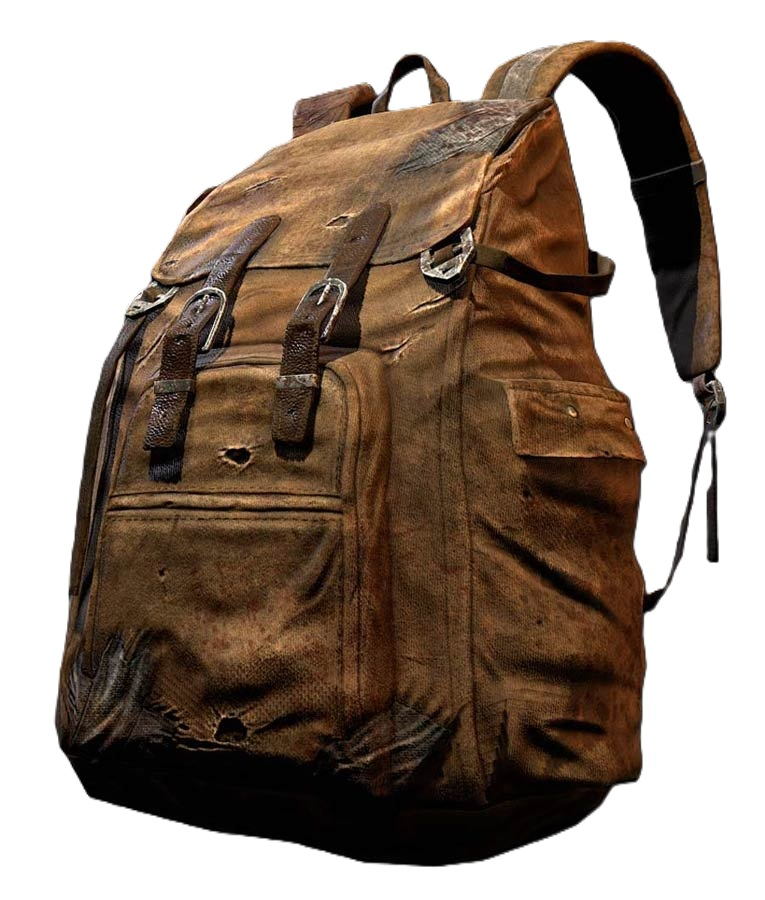
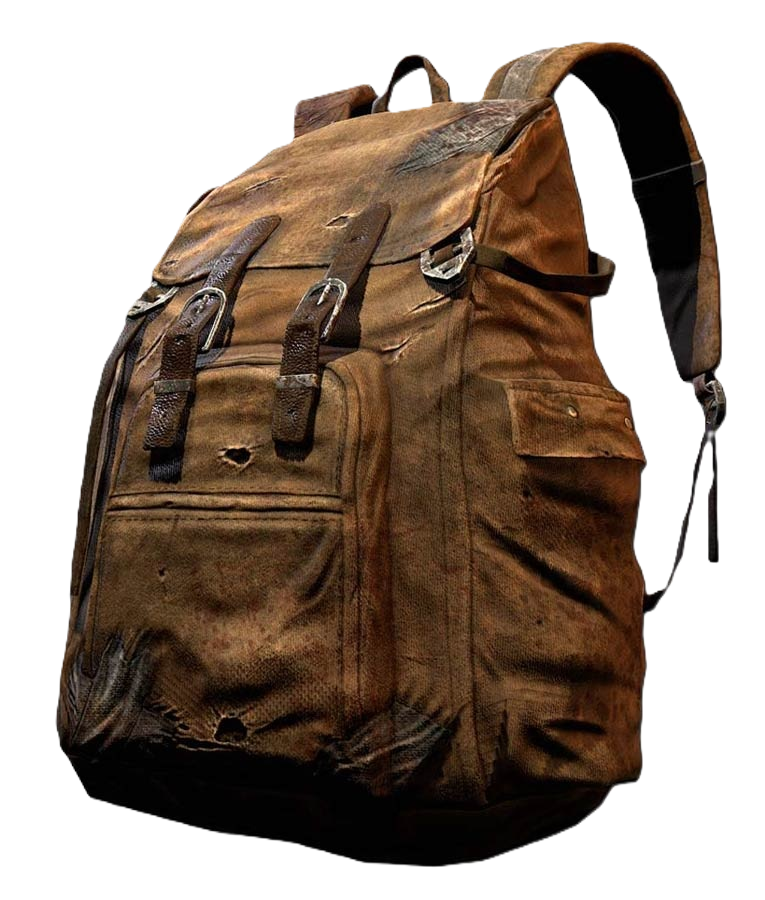
-

diff --git a/tlou/the-last-of-us.css b/tlou/the-last-of-us.css
@@ -12,7 +12,7 @@
 }
 
 * { box-sizing: border-box; }
-html { scroll-behavior: smooth; scroll-padding-top: 80px; }
+html { scroll-behavior: smooth; scroll-padding-top: 80px;}
 body {
     margin: 0;
     background: var(--bg);
@@ -50,7 +50,19 @@ button:focus-visible, a:focus-visible { outline: 2px solid var(--moss); outline-
 .site-nav a:hover, .header-index:hover { color: #fff; }
 .header-index span { margin-left: 8px; color: var(--moss); }
 
-.hero { min-height: min(820px, calc(100svh - 82px)); min-height: max(650px, min(820px, calc(100svh - 82px))); position: relative; display: flex; align-items: center; isolation: isolate; overflow: hidden; background: #20251e; }
+.hero { min-height: min(820px, calc(100svh - 82px)); min-height: max(650px, min(820px, calc(100svh - 82px))); position: relative; display: flex; align-items: center; isolation: isolate; overflow: hidden;
+    background-image:
+        linear-gradient(
+            to bottom,
+            rgba(10, 12, 10, 0.25),
+            rgba(10, 12, 10, 0.75)
+        ),
+        url("image/tlou-hero.jpg");
+
+    background-size: cover;
+    background-position: center;
+    background-repeat: no-repeat; 
+}
 .hero-image { position: absolute; inset: 0; z-index: -3; background-image: url("https://images.unsplash.com/photo-1511497584788-876760111969?auto=format&fit=crop&w=2200&q=85"); background-size: cover; background-position: center 46%; filter: saturate(.48) contrast(1.04); transform: scale(1.025); }
 .hero-vignette { position: absolute; inset: 0; z-index: -2; background: linear-gradient(90deg, rgba(13,16,13,.94) 0%, rgba(13,16,13,.72) 42%, rgba(13,16,13,.14) 100%), linear-gradient(0deg, var(--bg) 0%, transparent 23%, rgba(12,14,11,.12) 75%, rgba(12,14,11,.28) 100%); }
 .hero-content { width: min(calc(100% - 80px), var(--content-width)); margin: 0 auto; padding: 70px 0 100px; }
@@ -73,7 +85,7 @@ button:focus-visible, a:focus-visible { outline: 2px solid var(--moss); outline-
 .intro-strip p { margin: 0; color: #c6c9bb; font-size: 8px; letter-spacing: .17em; text-align: center; }
 .intro-strip > span { width: 4px; height: 4px; flex: 0 0 4px; border-radius: 50%; background: #858d70; }
 .section-wrap { width: min(calc(100% - 80px), var(--content-width)); margin-inline: auto; }
-.journey { padding-top: 130px; padding-bottom: 120px; }
+.journey { padding-top: 60px; padding-bottom: 50px; }
 .section-heading { max-width: 670px; margin-bottom: 60px; }
 .section-heading .eyebrow { margin-bottom: 24px; }
 .section-heading h2, .closing-section h2 { font-size: clamp(56px, 7.2vw, 96px); }
@@ -93,10 +105,10 @@ button:focus-visible, a:focus-visible { outline: 2px solid var(--moss); outline-
 .route-stop-right .route-copy { order: 1; }
 .route-image { position: relative; min-height: 300px; overflow: hidden; background-color: #30382b; background-size: cover; background-position: center; filter: saturate(.62); box-shadow: 0 25px 60px rgba(0,0,0,.18); }
 .route-image::after, .story-image::after { content: ""; position: absolute; inset: 0; background: linear-gradient(0deg, rgba(14,17,13,.3), transparent 60%); pointer-events: none; }
-.image-city { background-image: url("https://images.unsplash.com/photo-1519608487953-e999c86e7455?auto=format&fit=crop&w=1200&q=80"); }
-.image-overgrowth { background-image: url("https://images.unsplash.com/photo-1448375240586-882707db888b?auto=format&fit=crop&w=1200&q=80"); }
-.image-interior { background-image: url("https://images.unsplash.com/photo-1511818966892-d7d671e672a2?auto=format&fit=crop&w=1200&q=80"); }
-.image-wilderness { background-image: url("https://images.unsplash.com/photo-1473448912268-2022ce9509d8?auto=format&fit=crop&w=1200&q=80"); }
+.image-city { background-image: url("image/tlou-block.jpg"); }
+.image-overgrowth { background-image: url("image/tlou-city.jpg"); }
+.image-interior { background-image: url("image/the-last-of-us-1.jpg"); }
+.image-wilderness { background-image: url("image/tlou-us.jpg"); }
 .route-copy { position: relative; padding: 20px 0; }
 .route-number { color: var(--soft); font-size: 8px; letter-spacing: .16em; }
 .route-copy h3 { margin: 18px 0 15px; font-family: "Oswald", sans-serif; font-size: clamp(30px, 3.6vw, 46px); font-weight: 400; line-height: 1.08; text-transform: uppercase; }
@@ -112,9 +124,9 @@ button:focus-visible, a:focus-visible { outline: 2px solid var(--moss); outline-
 .route-detail > p:last-child { margin: 0; color: var(--muted); font-size: 12px; line-height: 2; }
 .route-detail-close { position: absolute; top: 12px; right: 15px; border: 0; background: transparent; color: #dfe2d2; cursor: pointer; font-size: 25px; }
 
-.story-section { padding-top: 100px; padding-bottom: 120px; border-top: 1px solid var(--line); }
+.story-section { padding-top: 60px; padding-bottom: 70px; border-top: 1px solid var(--line); }
 .story-layout { display: grid; grid-template-columns: minmax(0, 1.05fr) minmax(0, .85fr); gap: clamp(35px, 7vw, 100px); align-items: center; }
-.story-image { position: relative; min-height: 520px; background-image: linear-gradient(0deg, rgba(16,19,15,.18), rgba(16,19,15,.05)), url("https://images.unsplash.com/photo-1511497584788-876760111969?auto=format&fit=crop&w=1200&q=85"); background-size: cover; background-position: center; filter: saturate(.52); }
+.story-image { position: relative; min-height: 520px; background-image: linear-gradient(0deg, rgba(16,19,15,.18), rgba(16,19,15,.05)), url("image/clicker.jpg"); background-size: cover; background-position: center; filter: saturate(.52); }
 .story-copy .copy-label { margin-bottom: 22px; }
 .body-copy { margin: 0 0 18px; color: #c3c6b9; font-size: 12px; line-height: 2.1; }
 .muted-copy { color: #858b7b; font-size: 10px; }
@@ -127,7 +139,7 @@ button:focus-visible, a:focus-visible { outline: 2px solid var(--moss); outline-
 .fact-chips { display: flex; flex-wrap: wrap; gap: 6px; }
 .fact-chips span { padding: 6px 7px; border: 1px solid var(--line); color: #c6cabc; font-size: 9px; line-height: 1.3; }
 
-.gameplay-section { padding-top: 110px; padding-bottom: 120px; border-top: 1px solid var(--line); }
+.gameplay-section { padding-top: 60px; padding-bottom: 60px; border-top: 1px solid var(--line); }
 .mechanic-grid { display: grid; grid-template-columns: repeat(4, minmax(0, 1fr)); border-top: 1px solid var(--line); border-left: 1px solid var(--line); }
 .mechanic-card { min-height: 230px; padding: 25px 22px; border-right: 1px solid var(--line); border-bottom: 1px solid var(--line); background: rgba(255,255,255,.012); transition: background .25s ease, transform .25s ease; }
 .mechanic-card:hover { background: rgba(180,190,150,.055); transform: translateY(-4px); }
@@ -135,7 +147,7 @@ button:focus-visible, a:focus-visible { outline: 2px solid var(--moss); outline-
 .mechanic-card h3 { margin: 30px 0 12px; font-size: 13px; font-weight: 600; }
 .mechanic-card p { margin: 0; color: #9ea394; font-size: 10px; line-height: 1.9; }
 
-.backpack-section { padding-top: 110px; padding-bottom: 120px; border-top: 1px solid var(--line); }
+.backpack-section { padding-top: 60px; padding-bottom: 60px; border-top: 1px solid var(--line); }
 .backpack-heading { max-width: 720px; }
 .backpack-playground { display: grid; grid-template-columns: minmax(0, 1fr) minmax(0, .9fr); gap: clamp(35px, 7vw, 90px); align-items: center; }
 .backpack-visual { position: relative; min-height: 500px; display: grid; place-items: center; overflow: hidden; background: radial-gradient(ellipse at center, rgba(125,137,99,.14), transparent 65%); }
@@ -172,14 +184,14 @@ button:focus-visible, a:focus-visible { outline: 2px solid var(--moss); outline-
 .craft-result { min-height: 20px; margin: 14px 0 0; color: #c6a68a; font-size: 10px; line-height: 1.8; }
 .craft-result.is-success { color: #c2d09b; }
 
-.features-section { padding-top: 110px; padding-bottom: 120px; border-top: 1px solid var(--line); }
+.features-section { padding-top: 60px; padding-bottom: 60px; border-top: 1px solid var(--line); }
 .feature-list { border-top: 1px solid var(--line); }
 .feature-row { display: grid; grid-template-columns: 60px minmax(180px, .8fr) minmax(0, 1fr); align-items: start; gap: 25px; padding: 28px 0; border-bottom: 1px solid var(--line); }
 .feature-row > span { color: var(--moss); font-family: "Oswald", sans-serif; font-size: 22px; }
 .feature-row h3 { margin: 4px 0 0; font-size: 13px; font-weight: 600; }
 .feature-row p { max-width: 560px; margin: 0; color: #a7ad9b; font-size: 11px; line-height: 1.9; }
 
-.requirements-section { padding-top: 110px; padding-bottom: 120px; border-top: 1px solid var(--line); }
+.requirements-section { padding-top: 70px; padding-bottom: 80px; border-top: 1px solid var(--line); }
 .requirements-grid { display: grid; grid-template-columns: repeat(2, minmax(0,1fr)); gap: 18px; }
 .requirement-card { min-width: 0; padding: 28px; border: 1px solid var(--line); background: linear-gradient(130deg, rgba(255,255,255,.035), rgba(255,255,255,.008)); }
 .requirement-label { display: flex; align-items: center; gap: 13px; padding-bottom: 20px; border-bottom: 1px solid var(--line); color: #b9beaa; font-size: 9px; letter-spacing: .12em; }
@@ -188,7 +200,7 @@ button:focus-visible, a:focus-visible { outline: 2px solid var(--moss); outline-
 .requirements-note { max-width: 760px; margin: 20px 0 0; color: #7f8677; font-size: 9px; line-height: 1.9; }
 
 .closing-section { position: relative; min-height: 540px; display: flex; flex-direction: column; justify-content: center; align-items: center; padding: 90px 24px; overflow: hidden; isolation: isolate; text-align: center; }
-.closing-backdrop { position: absolute; inset: 0; z-index: -2; background-image: linear-gradient(rgba(16,19,15,.8), rgba(16,19,15,.92)), url("https://images.unsplash.com/photo-1448375240586-882707db888b?auto=format&fit=crop&w=1800&q=80"); background-size: cover; background-position: center; filter: saturate(.5); }
+.closing-backdrop { position: absolute; inset: 0; z-index: -2; background-image: linear-gradient(rgba(16,19,15,.8), rgba(16,19,15,.92)), url("image/tlou-footer.jpg"); background-size: cover; background-position: center; filter: saturate(.5); }
 .closing-section h2 { margin-top: 22px; font-size: clamp(55px, 8vw, 90px); }
 .closing-section > p:not(.eyebrow) { max-width: 400px; margin: 20px 0 0; color: #b9beaf; font-size: 12px; line-height: 1.8; }
 .closing-section .hero-cta { margin-top: 28px; }

diff --git a/tlou/the-last-of-us.html b/tlou/the-last-of-us.html
@@ -48,26 +48,22 @@
                 <a class="hero-cta" href="#journey">Проследить маршрут <span>↓</span></a>
             </div>
             <div class="hero-side-note">UNITED STATES<br>20 YEARS AFTER THE OUTBREAK</div>
-            <div class="hero-bottom-line"><span>НАДЕЖДА — ЭТО ТОЖЕ РЕСУРС</span><span>01 / 06</span></div>
+            <div class="hero-bottom-line"><span>НАДЕЖДА — ЭТО ТОЖЕ РЕСУРС</span></div>
         </section>
-
         <section class="intro-strip" aria-label="Краткая информация">
             <p>ОДНА ДОРОГА</p><span></span><p>ДВА ПУТНИКА</p><span></span><p>МИР, КОТОРЫЙ ЗАРОС ТИШИНОЙ</p>
         </section>
-
         <section class="journey section-wrap" id="journey">
             <div class="section-heading journey-heading">
                 <p class="eyebrow">THE JOURNEY</p>
                 <h2>Следуй<br><em>за маршрутом.</em></h2>
                 <p class="section-intro">Это не точная карта событий, а визуальный след путешествия через разрушенную Америку. Прокручивай страницу и открывай главы пути.</p>
             </div>
-
             <div class="route-map">
                 <svg class="route-line" viewBox="0 0 1000 1900" preserveAspectRatio="none" aria-hidden="true">
                     <path class="route-line-shadow" d="M500 0 C500 100 240 95 250 230 S760 360 720 500 S230 650 300 820 S790 980 700 1150 S220 1330 310 1480 S730 1650 500 1900" />
                     <path class="route-line-main" d="M500 0 C500 100 240 95 250 230 S760 360 720 500 S230 650 300 820 S790 980 700 1150 S220 1330 310 1480 S730 1650 500 1900" />
                 </svg>
-
                 <article class="route-stop route-stop-left" data-route-stop="0">
                     <div class="route-image image-city" role="img" aria-label="Заброшенный американский город"></div>
                     <div class="route-copy">
@@ -78,7 +74,6 @@
                     </div>
                     <span class="route-pin" aria-hidden="true"></span>
                 </article>
-
                 <article class="route-stop route-stop-right" data-route-stop="1">
                     <div class="route-image image-overgrowth" role="img" aria-label="Заросшие руины"></div>
                     <div class="route-copy">
@@ -89,7 +84,6 @@
                     </div>
                     <span class="route-pin" aria-hidden="true"></span>
                 </article>
-
                 <article class="route-stop route-stop-left" data-route-stop="2">
                     <div class="route-image image-interior" role="img" aria-label="Тёмное заброшенное здание"></div>
                     <div class="route-copy">
@@ -100,7 +94,6 @@
                     </div>
                     <span class="route-pin" aria-hidden="true"></span>
                 </article>
-
                 <article class="route-stop route-stop-right" data-route-stop="3">
                     <div class="route-image image-wilderness" role="img" aria-label="Дорога через дикую местность"></div>
                     <div class="route-copy">
@@ -112,15 +105,13 @@
                     <span class="route-pin" aria-hidden="true"></span>
                 </article>
             </div>
-
             <div class="route-detail" id="route-detail" aria-live="polite" hidden>
                 <button class="route-detail-close" id="route-detail-close" type="button" aria-label="Закрыть запись">×</button>
-                <p class="eyebrow" id="route-detail-kicker">FIELD NOTE / 01</p>
+                <p class="eyebrow" id="route-detail-kicker">FIELD NOTE</p>
                 <h3 id="route-detail-title">Полевые заметки</h3>
                 <p id="route-detail-text"></p>
             </div>
         </section>
-
         <section class="story-section section-wrap" id="about-game">
             <div class="section-heading">
                 <p class="eyebrow">ABOUT THE GAME</p>
@@ -143,7 +134,6 @@
                 <div class="fact"><span>ПЛАТФОРМЫ</span><div class="fact-chips" id="game-platforms"><span>PC</span><span>PlayStation 5</span></div></div>
             </div>
         </section>
-
         <section class="gameplay-section section-wrap" id="gameplay">
             <div class="section-heading">
                 <p class="eyebrow">SURVIVAL SYSTEMS</p>
@@ -157,17 +147,15 @@
                 <article class="mechanic-card"><span>04</span><h3>Напарники</h3><p>Диалоги, совместные действия и меняющиеся отношения героев придают путешествию человеческое измерение.</p></article>
             </div>
         </section>
-
         <section class="backpack-section section-wrap" id="backpack">
             <div class="section-heading backpack-heading">
                 <p class="eyebrow">FIELD EQUIPMENT</p>
                 <h2>Рюкзак<br><em>выжившего.</em></h2>
                 <p class="section-intro">В пути каждый предмет имеет значение. Нажимай на вещи, чтобы изучить их. Попробуй собрать полезный комплект из найденных припасов.</p>
             </div>
-
             <div class="backpack-playground">
                 <div class="backpack-visual">
-                    <img class="backpack-image" id="backpack-image" src="image/tlou-backpack.jpg" alt="Рюкзак выжившего — нажми, чтобы изучить снаряжение" onerror="this.hidden=true; document.querySelector('.backpack-fallback').hidden=false;">
+                    <img class="backpack-image" id="backpack-image" src="image/tlou-backpack.png" alt="Рюкзак выжившего — нажми, чтобы изучить снаряжение" onerror="this.hidden=true; document.querySelector('.backpack-fallback').hidden=false;">
                     <div class="backpack-fallback" hidden><span>FIELD KIT</span><small>assets/tlou-backpack.png</small></div>
                     <span class="backpack-stamp">PROPERTY<br>OF A SURVIVOR</span>
                 </div>

diff --git a/tlou/the-last-of-us.js b/tlou/the-last-of-us.js
@@ -104,7 +104,7 @@ async function loadGameData() {
             .maybeSingle();
 
         if (error) throw error;
-        if (!game) return; // Оставляем встроенный контент страницы как резервный вариант.
+        if (!game) return; 
 
         document.title = `${game.title || "The Last of Us Part I"} — NEXUS`;
         setText("#game-developer", game.universe);
@@ -159,8 +159,6 @@ function initRouteInteractions() {
             button.setAttribute("aria-expanded", "false");
         });
     });
-
-    // Прорисовка линии маршрута по мере прокрутки.
     const routeSection = document.querySelector(".route-map");
     const routeLine = document.querySelector(".route-line-main");
     if (routeSection && routeLine && "IntersectionObserver" in window) {
@@ -175,8 +173,6 @@ function initRouteInteractions() {
     } else if (routeLine) {
         routeLine.classList.add("is-visible");
     }
-
-    // Точки маршрута подсвечиваются, когда соответствующий эпизод входит в экран.
     if ("IntersectionObserver" in window) {
         const stopObserver = new IntersectionObserver((entries) => {
             entries.forEach((entry) => {
